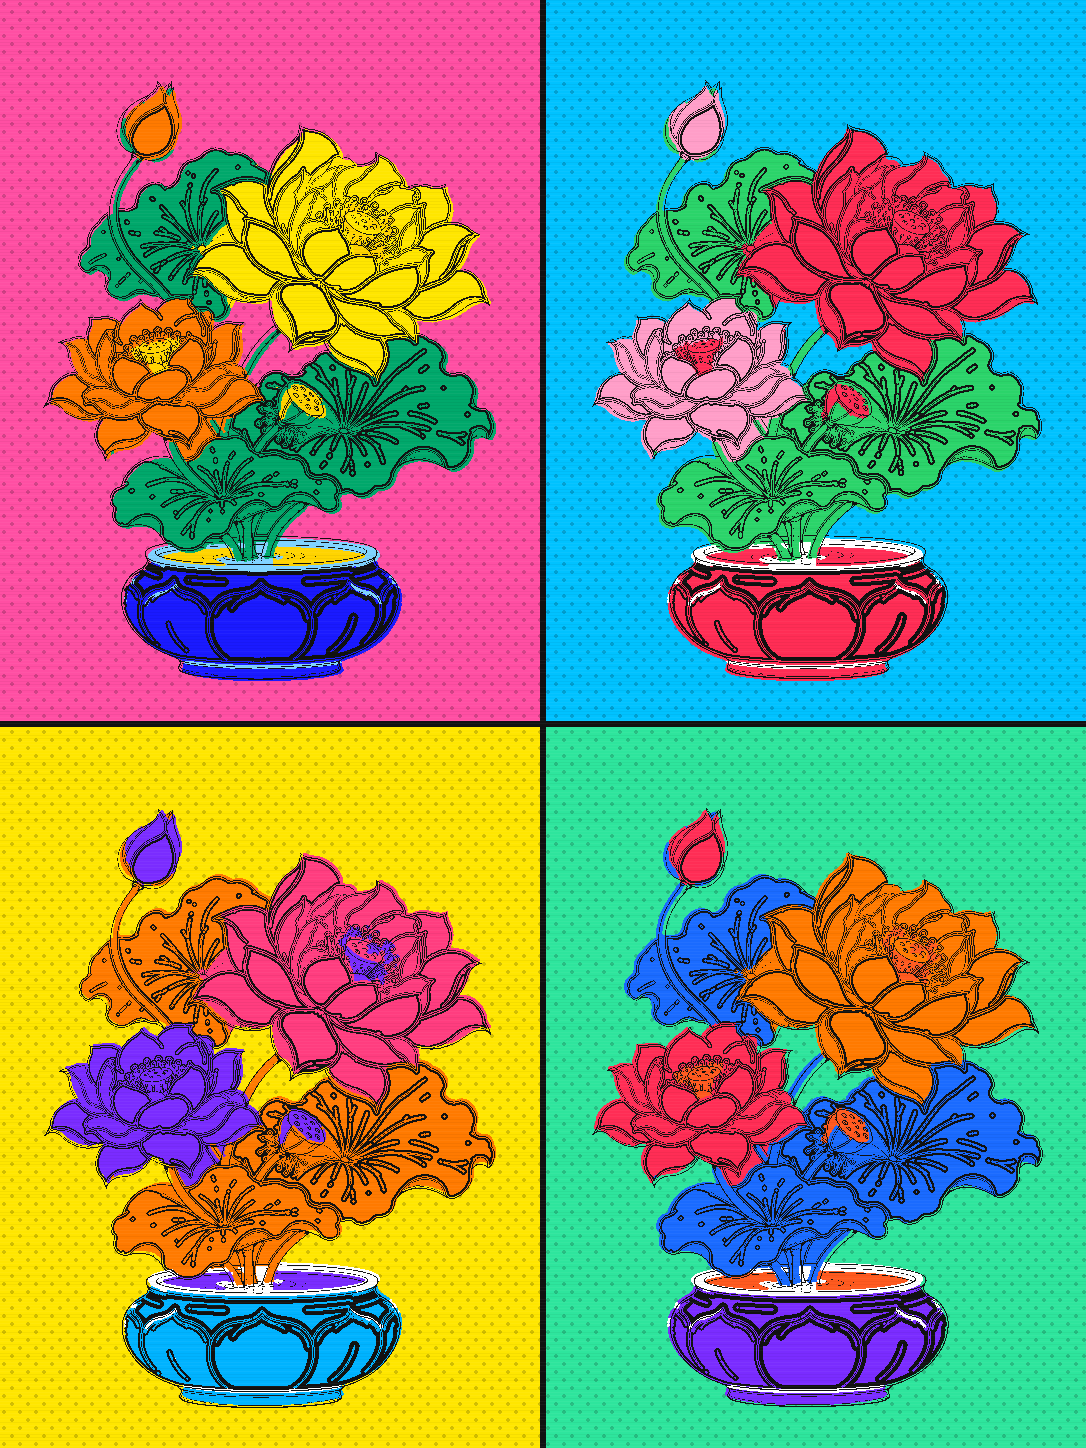
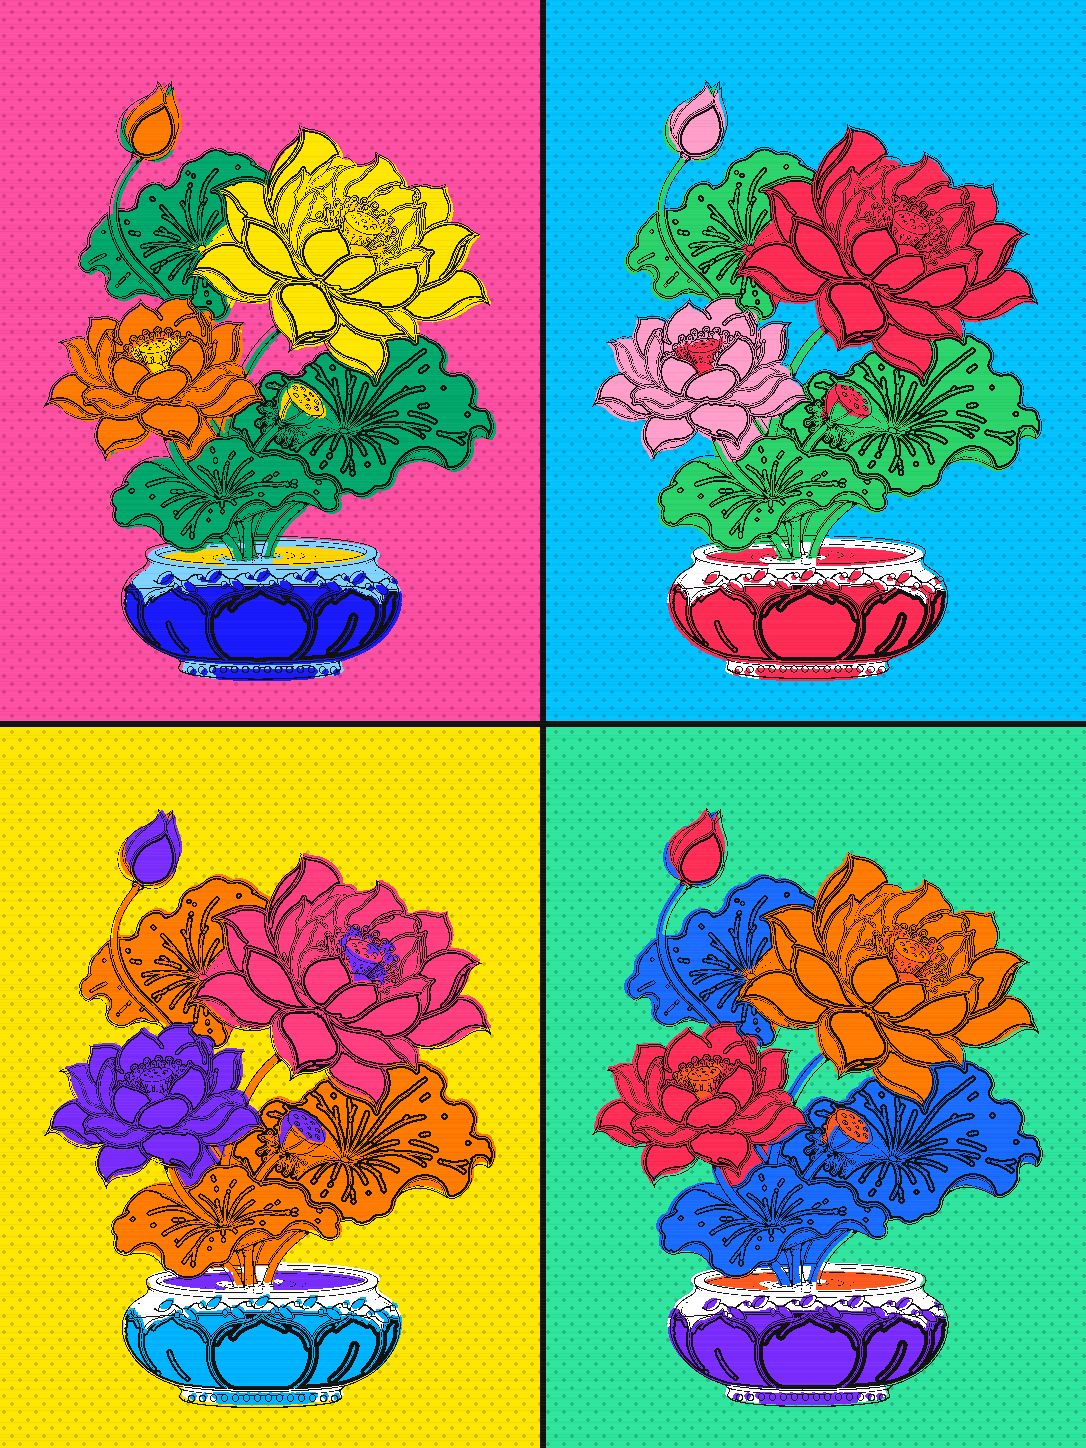
Lotus: blue-and-white ornament on the bowl (vine band + pearls), re-render all 15
Claude-Session: https://claude.ai/code/session_01Vdfste3ym7yyiZRhYkiYaU

diff --git a/projects/lotus_masters_20261109/lineart/meta.js b/projects/lotus_masters_20261109/lineart/meta.js
@@ -1,1 +1,1 @@
-window.META={"W": 1086, "H": 1448, "blooms": [[690, 500, 310, 262, "a"], [305, 745, 225, 165, "b"]], "vase": {"x0": 245, "x1": 812, "y0": 1075, "y1": 1410, "cx": 528}, "table_y": 99999, "angle": {"3": 1.991276093819022, "10": 1.1967155732527213, "15": 1.976792011815294, "18": 2.721511807860579, "22": 1.2884361702386034, "78": 0.9614739314626595, "165": 0.7958794312805312, "196": 2.2035839248402356, "201": 3.0217553852099255, "275": 2.2220057255863406, "281": 0.9839130496050764, "283": -2.9723061879703105, "286": 2.786841201907738, "290": -2.969026385613428, "292": 2.6619744338345788, "293": 1.789257727252568, "295": 0.9967496840852758, "308": 2.845429076885314, "312": 2.260041274510633, "315": 2.3886742378320767, "319": -2.953586822902607, "320": -2.9367588462627365, "321": -3.067360524764191, "323": 2.4060288164379258, "329": 2.990511936950587, "333": 0.8906463771751714, "341": -3.020271514199332, "343": -2.6578814211713686, "346": -2.943804764145762, "347": 2.408387878632424, "348": 2.792998454301228, "349": 2.1945243535319396, "355": 2.0211149155636488, "356": -2.8700759823744133, "357": 2.728538073145052, "358": 1.5542824789829128, "360": 1.477844169139391, "361": 1.4642343366137593, "363": 1.0224281897215992, "364": 0.0, "367": 3.0850967299485577, "368": 3.0703532361967514}};
+window.META={"W": 1086, "H": 1448, "blooms": [[690, 500, 310, 262, "a"], [305, 745, 225, 165, "b"]], "vase": {"x0": 245, "x1": 812, "y0": 1075, "y1": 1410, "cx": 528}, "table_y": 99999, "angle": {"3": 1.9912760938190217, "10": 1.196715573252721, "15": 1.976792011815294, "18": 2.721511807860579, "22": 1.2884361702386034, "78": 0.9614739314626606, "165": 0.7958794312805311, "196": 2.203583924840236, "201": 3.0217553852099255, "275": 2.2220057255863406, "281": 0.9839130496050769, "283": -2.9723061879703105, "286": 2.786841201907738, "290": -2.9690263856134282, "292": 2.6619744338345788, "293": 1.7892577272525676, "295": 0.9967496840852759, "308": 2.845429076885314, "312": 2.260041274510634, "315": 2.3886742378320767, "319": -2.9535868229026074, "320": -2.9367588462627365, "321": -3.0673605247641906, "323": 2.4060288164379258, "329": 2.9905119369505866, "333": 0.8906463771751714, "341": -3.020271514199332, "343": -2.657881421171369, "346": -2.9438047641457623, "347": 2.408387878632424, "348": 2.792998454301228, "349": 2.19452435353194, "355": 2.0211149155636488, "356": -2.8700759823744133, "357": 2.728538073145052, "358": 1.5542824789829128, "360": 1.477844169139391, "361": 1.4642343366137596, "363": 1.0224281897215985, "364": 0.0, "367": 3.085096729948558, "368": 3.0703532361967514}};

diff --git a/projects/lotus_masters_20261109/code/lotus_bowl_ornament.py b/projects/lotus_masters_20261109/code/lotus_bowl_ornament.py
@@ -1,0 +1,52 @@
+"""Add a blue-and-white style ornament to the bowl of the lotus line art.
+The original bowl is a smooth round bowl with only a ring of lotus-petal relief, so we add
+  * a scrolling vine (leaves + dots) on the shoulder band under the rim
+  * a row of pearls on the foot ring
+Outputs base_orn.png (line art with the ornament drawn as ink) and orn_mask.png (255 inside leaves/pearls,
+used by lotus_prep.py to class those regions as the bowl's accent colour, VASE_B).
+usage: lotus_bowl_ornament.py base.png base_orn.png orn_mask.png"""
+import sys, math
+from PIL import Image, ImageDraw
+src, out, outm = sys.argv[1:4]
+im = Image.open(src).convert('L'); W, H = im.size
+mask = Image.new('L', (W, H), 0)
+d, dm = ImageDraw.Draw(im), ImageDraw.Draw(mask)
+INK = 45
+
+def shoulder_y(x):               # centre line of the shoulder band (original pixel coords)
+    return 1060 + (188 + 40 * ((x - 530) / 260) ** 2 * 0.55) / 2 + 2
+
+def leaf(cx, cy, ang, L=24, Wd=12):
+    pts = []
+    for t in range(0, 41):
+        a = t / 40 * 2 * math.pi
+        # pointed leaf outline: lemon shape
+        u = math.cos(a) * L / 2; v = math.sin(a) * Wd / 2 * (1 - 0.25 * math.cos(a) ** 2)
+        pts.append((cx + u * math.cos(ang) - v * math.sin(ang), cy + u * math.sin(ang) + v * math.cos(ang)))
+    d.polygon(pts, fill=255, outline=INK); d.line(pts + [pts[0]], fill=INK, width=2)
+    dm.polygon(pts, fill=255)
+
+def dot(cx, cy, r=5):
+    d.ellipse((cx - r, cy - r, cx + r, cy + r), fill=255, outline=INK, width=2); dm.ellipse((cx - r, cy - r, cx + r, cy + r), fill=255)
+
+# --- the shoulder band's lower edge (faint in the original, so it did not close the band): draw it as ink
+low = [(x, shoulder_y(x) + 15) for x in range(262, 799, 2)]
+d.line(low, fill=INK, width=2)
+# --- scrolling vine on the shoulder
+x0, x1, step = 312, 790, 2
+pts = []
+for x in range(x0, x1 + 1, step):
+    pts.append((x, shoulder_y(x) + 6 * math.sin((x - x0) / 48 * 2 * math.pi)))
+d.line(pts, fill=INK, width=3)
+n = 0
+for x in range(x0 + 14, x1 - 14, 48):
+    y = shoulder_y(x) + 6 * math.sin((x - x0) / 48 * 2 * math.pi)
+    up = (n % 2 == 0)
+    leaf(x + 8, y + (-10 if up else 10), (-0.7 if up else 0.7), 34, 17)
+    dot(x + 31, y + (8 if up else -8), 6)
+    n += 1
+# --- pearls on the foot ring
+for x in range(386, 676, 22):
+    yy = 1342 + 1.6 * ((x - 530) / 138) ** 2
+    dot(x, yy, 7)
+im.save(out); mask.save(outm)

diff --git a/projects/lotus_masters_20261109/code/lotus_prep.py b/projects/lotus_masters_20261109/code/lotus_prep.py
@@ -66,6 +66,13 @@ for (fx, fy, fc, fb) in FIX:
     if len(vals) == 0: print('FIX found no region near', fx, fy); continue
     r_ = np.bincount(vals).argmax()
     cls_of[r_] = fc; bloom_of[r_] = fb
+import os
+mpath = os.path.join(os.path.dirname(src) or '.', 'orn_mask.png')
+if os.path.exists(mpath):      # bowl ornament (leaves, dots, pearls) -> accent class
+    om = np.asarray(Image.open(mpath)) > 0
+    cnt = ndi.sum(om, lab, idx); frac = cnt / np.maximum(area, 1)
+    for r in range(1, n + 1):
+        if frac[r] > 0.35 and cls_of[r] in (VASE_W, VASE_B): cls_of[r] = VASE_B
 clsmap = cls_of[lab]
 bloommap = bloom_of[lab]
 
